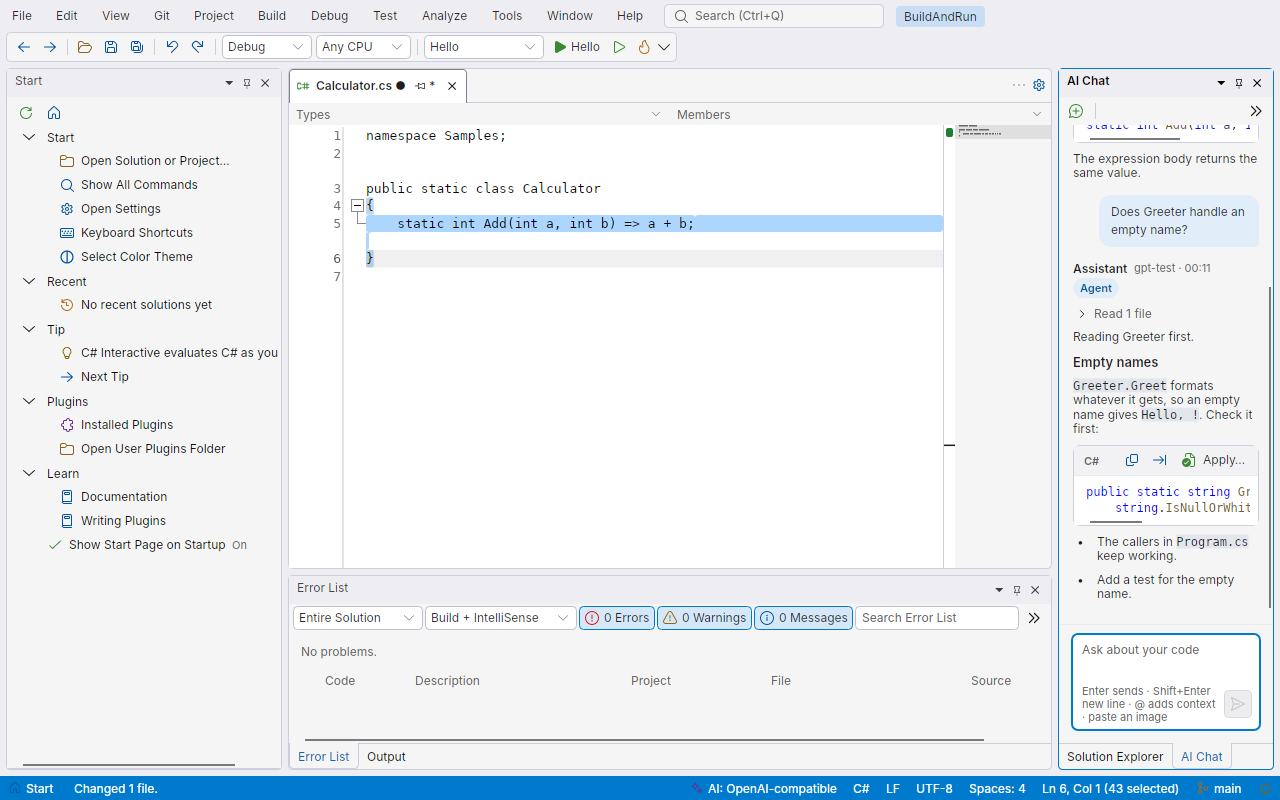
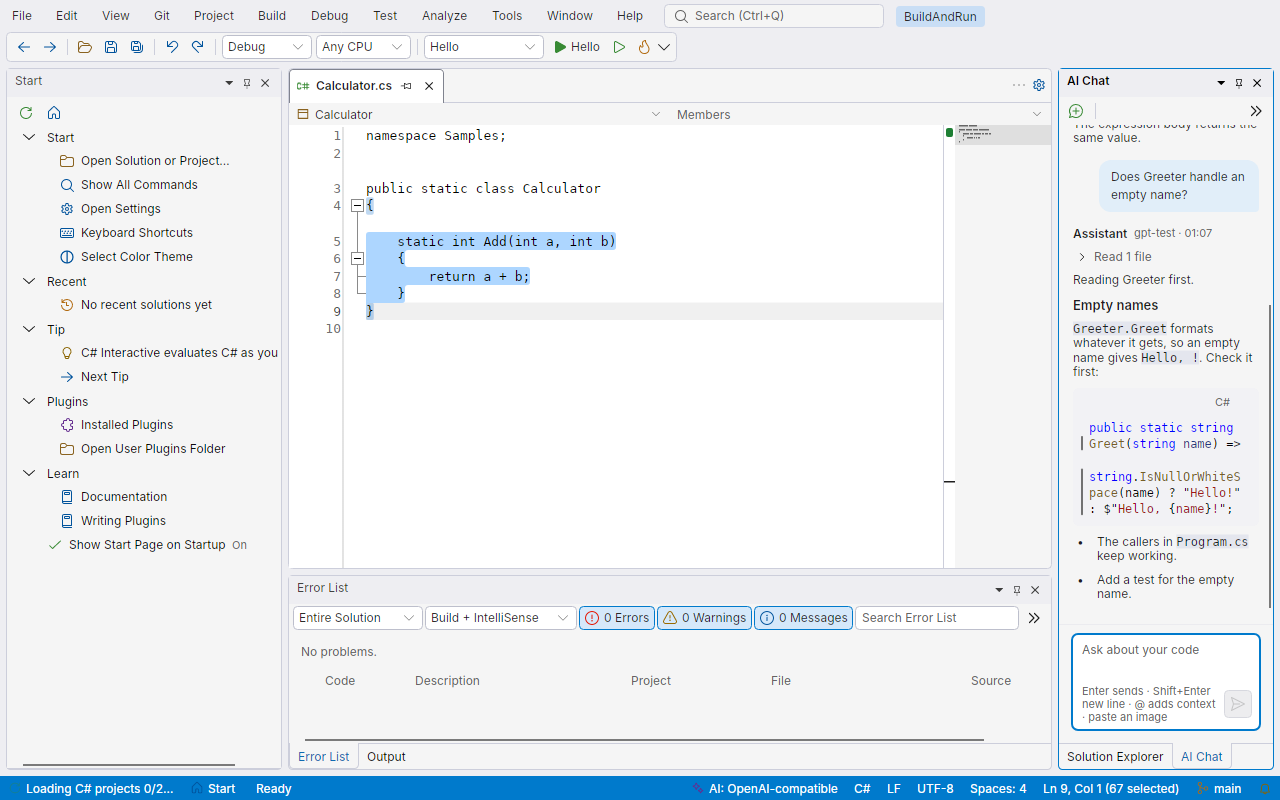
Website: AI Chat's screenshots of the new code block; the smoke step says what it checks
The smoke test's ai.chat step now checks the answer's code as a wrapped block
without actions and the agent's step; its description says so. The site's
two AI Chat pictures are taken from it again. ADR 0092's amendment records
the review's findings and the text engine's limits.

diff --git a/src/Codalus.Shell/Infrastructure/SmokeTest.cs b/src/Codalus.Shell/Infrastructure/SmokeTest.cs
@@ -700,7 +700,7 @@ internal sealed partial class SmokeTest(Window window, ShellHost shell, string s
 
         await StepAsync("git.hosting", "M13b", "GitHub on a mock server: device sign-in, pull requests, checkout, review comments, checks, # completion, askpass and worktrees", HostingStepAsync, "git.changes").ConfigureAwait(true);
 
-        await StepAsync("ai.chat", "M28a", "AI Chat with an OpenAI-compatible mock server: off until turned on, a question about the selection streamed, its code applied after the preview", AiChatStepAsync).ConfigureAwait(true);
+        await StepAsync("ai.chat", "M28a", "AI Chat with an OpenAI-compatible mock server: off until turned on, a question about the selection streamed, its code shown as a wrapped block without actions, and a step of the agent it always is", AiChatStepAsync).ConfigureAwait(true);
 
         // #79, D43: Connect to Claude… from AI Chat's off state, with stand-in node and npx: the requirements, the exact
         // commands and the consent shown; Cancel writes nothing. No network, no agent.

diff --git a/tests/Codalus.Shell.Tests/AiChatViewTests.cs b/tests/Codalus.Shell.Tests/AiChatViewTests.cs
@@ -243,7 +243,8 @@ public sealed class AiChatViewTests
         var lines = block.Viewer.Editor.Document.LineCount;
         var lineHeight = block.Viewer.Editor.TextArea.TextView.DefaultLineHeight;
         var visualLines = block.Viewer.Editor.TextArea.TextView.VisualLines.Sum(v => v.TextLines.Count);
-        Assert.InRange(block.Viewer.Bounds.Height, visualLines * lineHeight, (visualLines * lineHeight) + 40);
+        var padding = block.Viewer.Editor.Padding.Top + block.Viewer.Editor.Padding.Bottom;
+        Assert.InRange(block.Viewer.Bounds.Height, visualLines * lineHeight, (visualLines * lineHeight) + padding + 4);
         Assert.True(visualLines >= lines);
 
         // Lines wrap by default; the Wrap toggle (named, shown on hover) turns it off for this block.

diff --git a/docs/adr/0092-the-ides-tools-for-agents-and-a-compact-ai-chat.md b/docs/adr/0092-the-ides-tools-for-agents-and-a-compact-ai-chat.md
@@ -136,7 +136,9 @@ The maintainer, reviewing the chat's code blocks (a header of C#, Copy, Insert a
 So:
 - `ShellHost.RunAgentAsync` serves every built-in question, the AI actions' too (Generate Tests now creates its file through the preview). Without tools it calls `AiChat.SendAsync(…, withoutTools: reason)`, whose turn carries an info notice; that prompt says it has no tools.
 - `AiChatViewModel.IsAgent`, `IAiChatHost.ApplyAiCodeAsync` and `CopyTextAsync`, and `ShellHost.ApplyAiCodeAsync` are removed. The **Agent** chip on turns is gone: every built-in turn is an agent's. Fix with AI keeps its own preview.
-- `AiCodeBlockView` has no header. A wrapped line's continuation starts at the block's edge: Avalonia's text layout ignores AvaloniaEdit's wrap indentation (`TODO(issue)`: a hanging indent). The fold limits the viewer's height to 20 screen lines, while its count is the block's source lines.
+- `AiCodeBlockView` has no header. Its surface is a new token, `Shell.CodeBlock.Background` (the old header's colors, a step off the panel in every theme): an independent review of the screenshots found the block invisible in Classic Dark on the editor's background (#1E1E1E on #1F1F1F), and `contrast-pairs.txt` now checks code and its label on it.
+- A wrapped line's continuation starts at the block's edge: Avalonia's text layout ignores AvaloniaEdit's wrap indentation (`TODO(issue)`: a hanging indent). A thin mark in a margin beside each continuation groups a source line instead. The same line breaking splits a long identifier at the narrowest pane, and leaves an empty first screen line when a line's indentation and first identifier are wider than the pane.
+- The fold limits the viewer's height to 20 screen lines and fades its last ones out; its count is the block's source lines.
 
 ## Consequences
 
